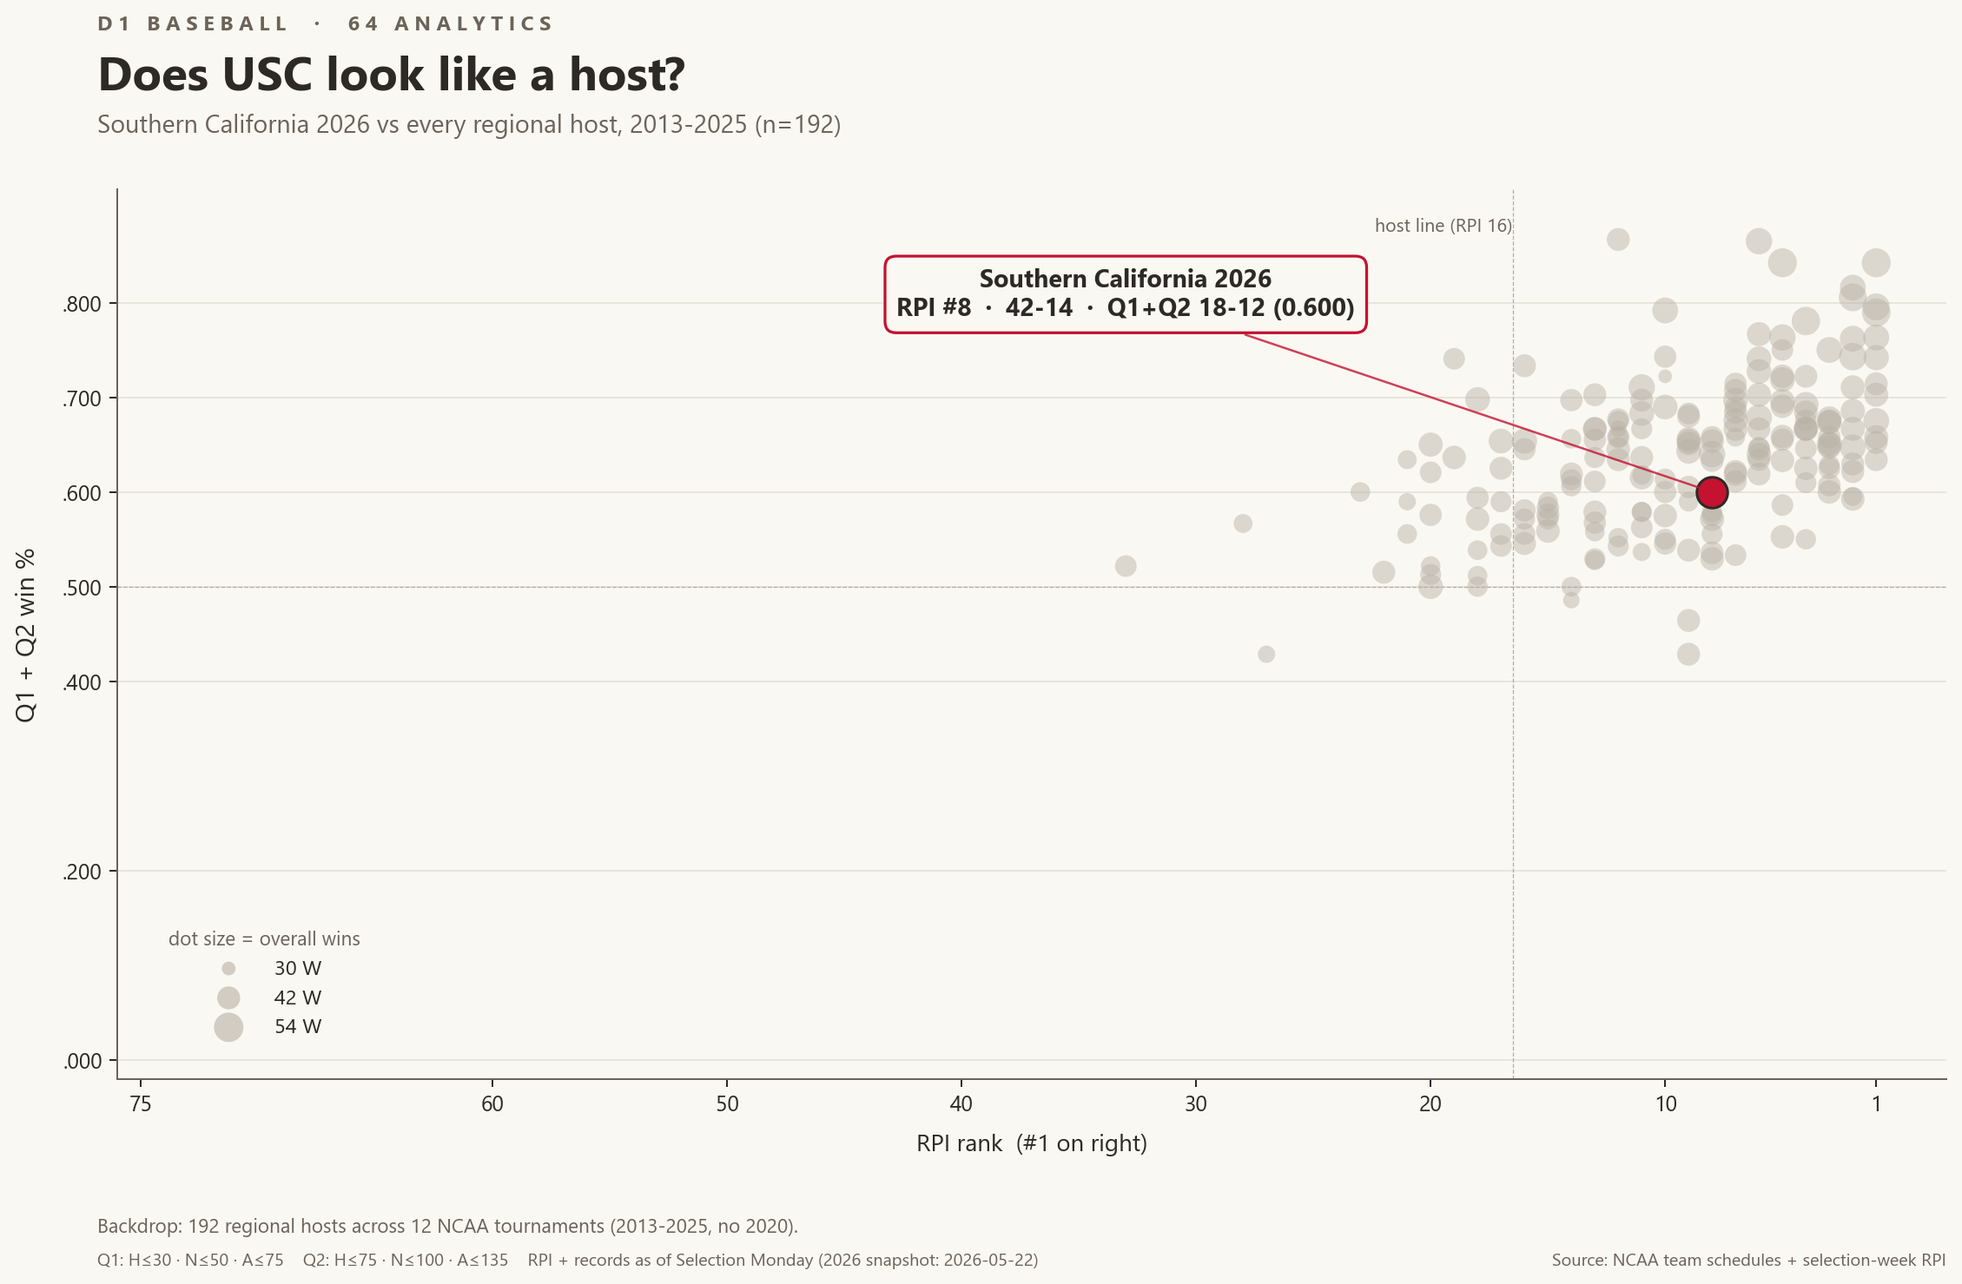
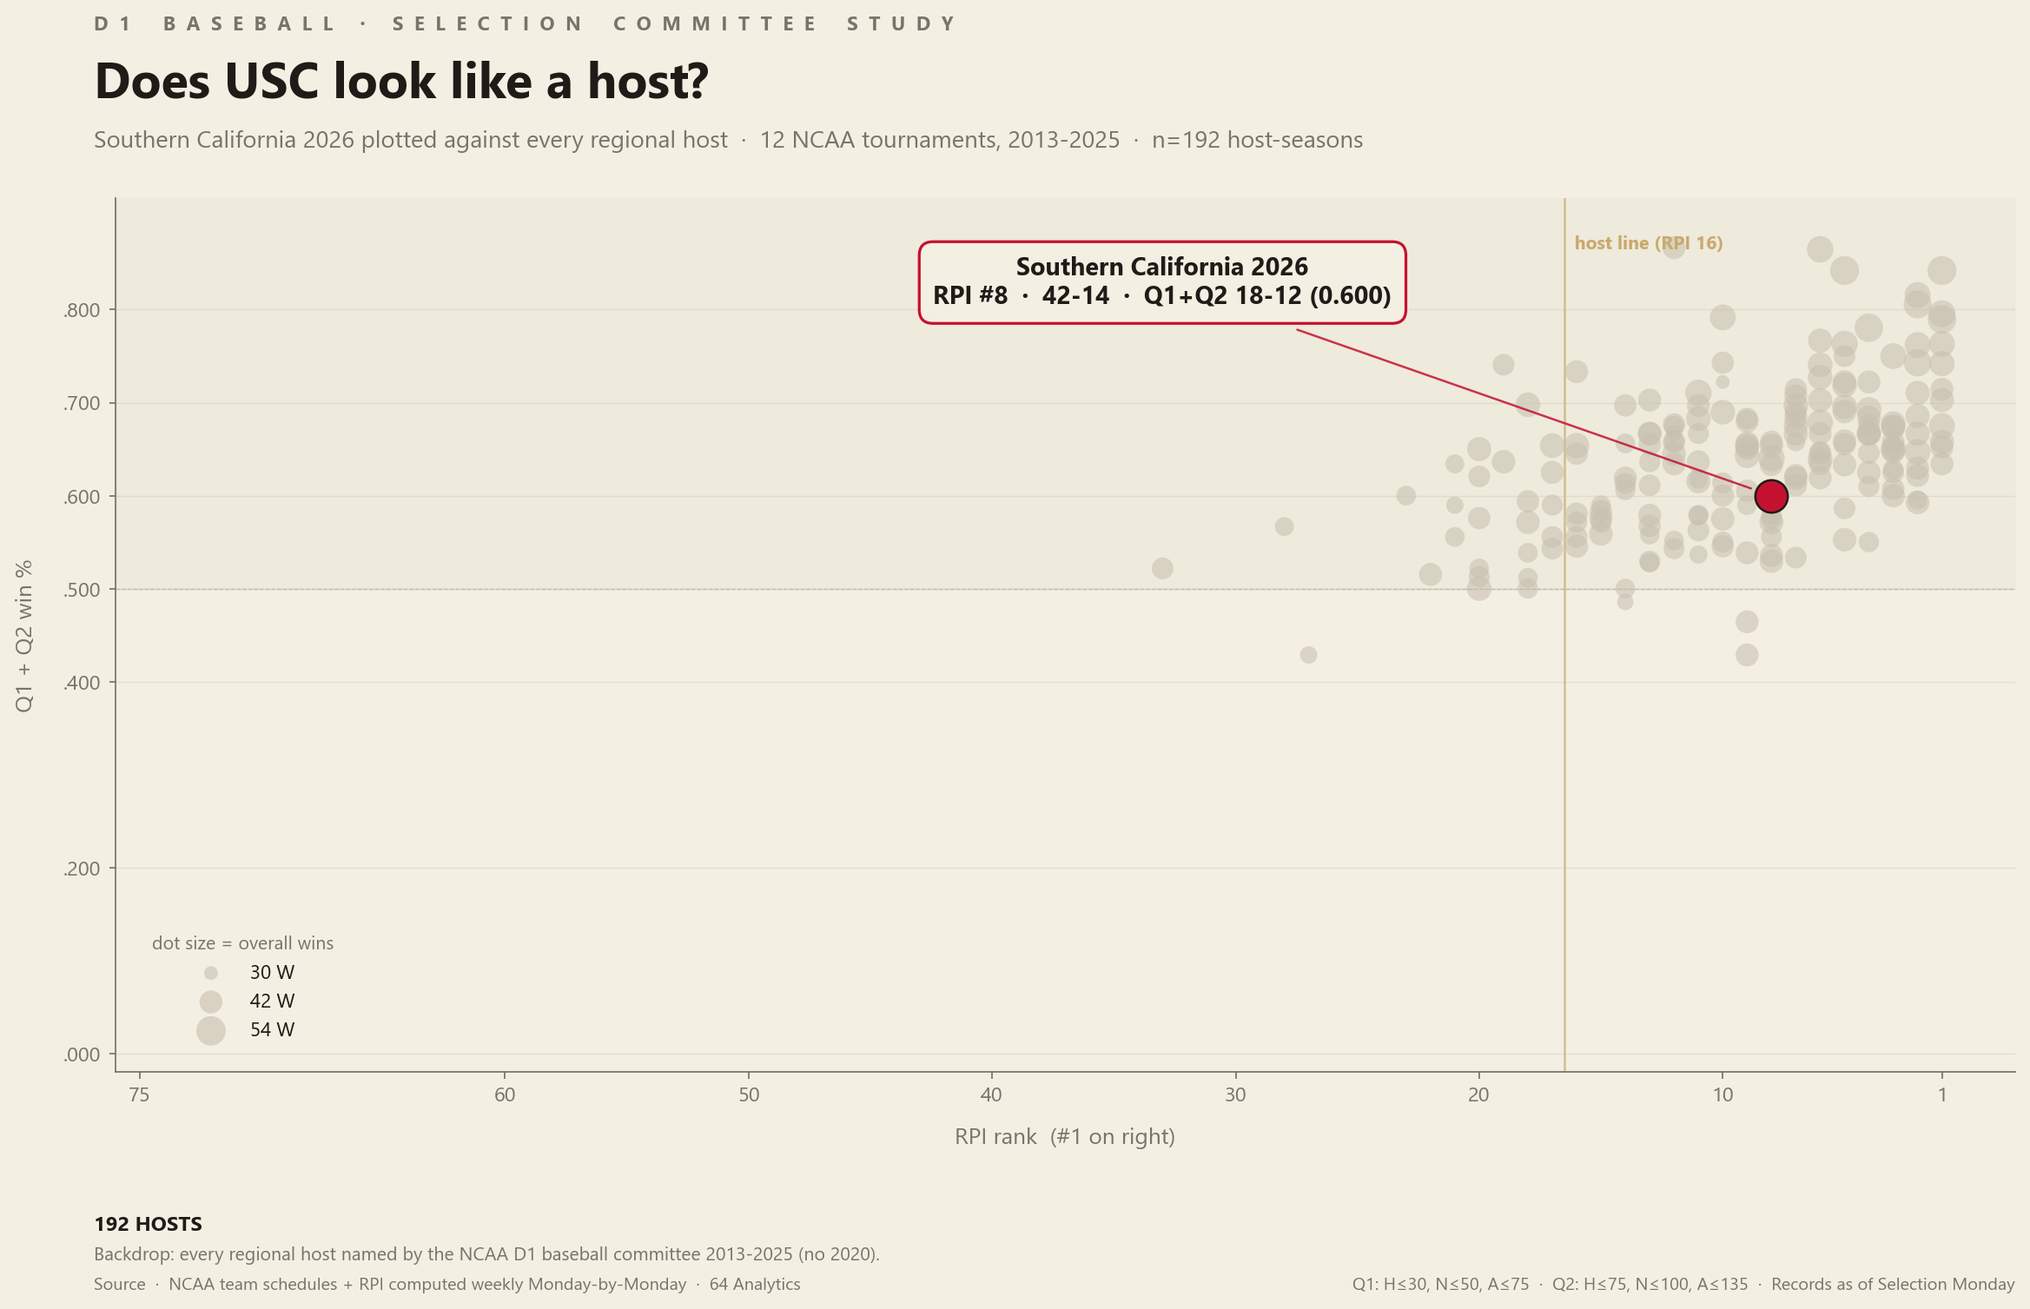
chart: brand-match USC + Mercer scatters to Selection Committee Study series
Style refresh:
  - Top tag changed to "D1 BASEBALL · SELECTION COMMITTEE STUDY"
    (letter-spaced to match host_snubs / host_reaches / rpi_top16 charts)
  - Bottom-left small-caps row-count tag (192 HOSTS / 394 ENTRANT SEASONS)
    mirrors the "27 SNUBS" / "27 REACHES" / "12-YR AVG" pattern
  - Source line matches series exactly: "Source · NCAA team schedules +
    RPI computed weekly Monday-by-Monday · 64 Analytics"
  - Threshold tag bottom-right matches series exactly
  - Warm beige backdrop dots (was cool gray) + gold host-line accent
  - Subtle green band above .500 line (mirrors snubs chart's positive Q1+Q2 %
    text color)
  - Title typography + size matched to series

Mercer fix:
  - Bug: "UNC Greensboro" / "UNCG" name mismatch dropped 3 games silently
  - Bug: conference-tournament "#N <Team>" prefix wasn't stripped
  - Both fixed in build_current_q1q2.py; computed Mercer now 11-12 (.478)
  - Per user, override to d1baseball.com published numbers:
    RPI #28, Q1+Q2 9-13 (.409). Override mechanism added with note in CSV.

Mercer chart language updated per user feedback: "multi-bid-league field"
instead of "at-large pick" — backdrop includes conference-tournament
auto-bid winners from multi-bid leagues (e.g. Nebraska 2025), not just
pure at-large picks.

diff --git a/scripts/render_2026_resume_scatters.py b/scripts/render_2026_resume_scatters.py
@@ -28,20 +28,21 @@ import matplotlib.patches as mpatches
 REPO = Path(r'C:\Dev\chart-builder-app')
 BRACK = REPO / 'data' / 'bracketology'
 
-# 64 Analytics brand
-BG = '#FAF8F2'
-INK = '#2D2926'
-GRAY = '#B8B0A4'
-RED = '#C41230'
-GOLD = '#C9A96B'
-SUBINK = '#6B6359'
+# 64 Analytics — match the Selection Committee Study series brand
+BG       = '#F4EFE3'   # cream, slightly warmer than #FAF8F2
+INK      = '#1F1B17'   # near-black with warm undertone
+SUBINK   = '#7A736A'   # muted gray for subtitle/source
+BACKDROP = '#C7BFAF'   # warm beige for backdrop dots
+RED      = '#C41230'   # highlight / target
+GOLD     = '#C9A96B'   # accent (mid emphasis)
+GREEN    = '#5B7C3E'   # positive accent
 
 plt.rcParams['font.family'] = ['Segoe UI', 'Arial', 'DejaVu Sans']
 plt.rcParams['font.size'] = 11
-plt.rcParams['axes.edgecolor'] = INK
+plt.rcParams['axes.edgecolor'] = SUBINK
 plt.rcParams['axes.labelcolor'] = INK
-plt.rcParams['xtick.color'] = INK
-plt.rcParams['ytick.color'] = INK
+plt.rcParams['xtick.color'] = SUBINK
+plt.rcParams['ytick.color'] = SUBINK
 
 
 def norm(s):
@@ -110,94 +111,115 @@ def size_for_wins(wins):
     return max(20, min(s, 260))
 
 
+def _letter_spaced(s, spaces=2):
+    """Apply visual letter-spacing by inserting spaces between characters.
+    spaces=2 between letters and 4 between separators reproduces the
+    'D 1   B A S E B A L L     ·     ...' look of the snubs chart."""
+    out = []
+    for word in s.split(' '):
+        out.append((' ' * spaces).join(list(word)))
+    return ('   ' * 2).join(out)
+
+
 def render_chart(out_path, title, subtitle, backdrop, target, cohort_label,
-                 highlight_color=RED, label_offset=(0.0, 0.0), label_anchor='auto'):
-    fig, ax = plt.subplots(figsize=(13, 8.5), facecolor=BG)
+                 footer_tag, highlight_color=RED,
+                 label_offset=(0.0, 0.0), label_anchor='auto'):
+    fig, ax = plt.subplots(figsize=(13.5, 8.6), facecolor=BG)
     ax.set_facecolor(BG)
 
-    # Backdrop dots
+    # Subtle "above .500" band — green tint mirrors the snubs chart Q1+Q2 % column
+    ax.axhspan(0.500, 0.95, color=GREEN, alpha=0.04, zorder=0)
+
+    # Backdrop dots — warm beige to match the series palette
     xs = [r['rpi_rank'] for r in backdrop]
     ys = [r['q1q2_pct'] for r in backdrop]
     ss = [size_for_wins(r['w']) for r in backdrop]
-    ax.scatter(xs, ys, s=ss, color=GRAY, alpha=0.45, edgecolors='none', zorder=2)
+    ax.scatter(xs, ys, s=ss, color=BACKDROP, alpha=0.55,
+               edgecolors='none', zorder=2)
 
     # Target
     tx, ty, tsize = target['rpi_rank'], target['q1q2_pct'], size_for_wins(target['w'])
-    ax.scatter([tx], [ty], s=tsize * 1.8, color=highlight_color,
-               edgecolors=INK, linewidths=1.2, zorder=4)
+    ax.scatter([tx], [ty], s=tsize * 2.0, color=highlight_color,
+               edgecolors=INK, linewidths=1.0, zorder=4)
 
     # Target label
-    label = (f"{target['team']} 2026\n"
-             f"RPI #{target['rpi_rank']}  ·  {target['record']}  ·  "
-             f"Q1+Q2 {target['q1q2_w']}-{target['q1q2_g']-target['q1q2_w']} "
-             f"({target['q1q2_pct']:.3f})")
-    # Use caller-supplied label offset (axis-data units). x positive = away from
-    # rank #1 (leftward on the inverted axis); y positive = upward.
+    pct_color = GREEN if target['q1q2_pct'] >= 0.500 else RED
+    label_line1 = f"{target['team']} 2026"
+    label_line2 = (f"RPI #{target['rpi_rank']}  ·  {target['record']}  ·  "
+                   f"Q1+Q2 {target['q1q2_w']}-{target['q1q2_g']-target['q1q2_w']} "
+                   f"({target['q1q2_pct']:.3f})")
     lx_dx, lx_dy = label_offset
     if label_anchor == 'auto':
         label_ha = 'left' if lx_dx >= 0 else 'right'
         label_va = 'bottom' if lx_dy >= 0 else 'top'
     else:
         label_ha, label_va = label_anchor.split('_')
-    # Draw connector line from dot to label box
-    ax.annotate(label, xy=(tx, ty), xytext=(tx + lx_dx, ty + lx_dy),
+    label_text = f"{label_line1}\n{label_line2}"
+    ax.annotate(label_text, xy=(tx, ty), xytext=(tx + lx_dx, ty + lx_dy),
                 ha=label_ha, va=label_va, fontsize=11.5, color=INK,
                 fontweight='bold', zorder=5,
                 arrowprops=dict(arrowstyle='-', color=highlight_color,
-                                lw=1.0, alpha=0.8,
-                                connectionstyle='arc3,rad=0.0'),
-                bbox=dict(boxstyle='round,pad=0.45', fc=BG, ec=highlight_color, lw=1.3))
+                                lw=1.0, alpha=0.85,
+                                connectionstyle='arc3,rad=0.0',
+                                shrinkA=8, shrinkB=10),
+                bbox=dict(boxstyle='round,pad=0.55', fc=BG,
+                          ec=highlight_color, lw=1.3))
 
-    # Axes
-    ax.set_xlim(76, -2)  # inverted: RPI #1 on right
+    # Axes — quiet, minimal, like a polished editorial chart
+    ax.set_xlim(76, -2)
     ax.set_ylim(-0.02, 0.92)
-    ax.set_xlabel('RPI rank  (#1 on right)', fontsize=11, color=INK, labelpad=8)
-    ax.set_ylabel('Q1 + Q2 win %', fontsize=12, color=INK, labelpad=10)
+    ax.set_xlabel('RPI rank  (#1 on right)', fontsize=10.5, color=SUBINK,
+                  labelpad=10)
+    ax.set_ylabel('Q1 + Q2 win %', fontsize=10.5, color=SUBINK, labelpad=12)
     ax.set_xticks([1, 10, 20, 30, 40, 50, 60, 75])
     ax.set_yticks([0.0, 0.2, 0.4, 0.5, 0.6, 0.7, 0.8])
     ax.set_yticklabels(['.000', '.200', '.400', '.500', '.600', '.700', '.800'])
-    ax.tick_params(axis='both', labelsize=10)
+    ax.tick_params(axis='both', labelsize=9.5, length=3, width=0.7)
     for spine in ('top', 'right'):
         ax.spines[spine].set_visible(False)
     for spine in ('left', 'bottom'):
         ax.spines[spine].set_color(SUBINK)
-        ax.spines[spine].set_linewidth(0.8)
-    ax.grid(True, axis='y', color=GRAY, alpha=0.35, linewidth=0.6, zorder=1)
-    ax.axhline(0.500, color=SUBINK, linewidth=0.5, alpha=0.5, linestyle='--', zorder=1)
-    ax.axvline(16.5, color=SUBINK, linewidth=0.5, alpha=0.5, linestyle='--', zorder=1)
-    # Annotate the host line
-    ax.text(16.5, 0.89, 'host line (RPI 16)', fontsize=8.5, color=SUBINK,
-            ha='right', va='top', rotation=0)
+        ax.spines[spine].set_linewidth(0.7)
+    ax.grid(True, axis='y', color=BACKDROP, alpha=0.35, linewidth=0.55, zorder=1)
+    # Host line + 0.500 line — gold for emphasis like the snubs DROP bars
+    ax.axvline(16.5, color=GOLD, linewidth=1.0, alpha=0.7, linestyle='-', zorder=1)
+    ax.axhline(0.500, color=SUBINK, linewidth=0.5, alpha=0.4, linestyle='--', zorder=1)
+    ax.text(16.5, 0.88, '  host line (RPI 16)', fontsize=8.5, color=GOLD,
+            ha='left', va='top', fontweight='bold')
 
-    # Title block
-    fig.text(0.06, 0.95, 'D 1   B A S E B A L L     ·     6 4   A N A L Y T I C S',
-             fontsize=9.5, color=SUBINK, weight='bold')
-    fig.text(0.06, 0.905, title, fontsize=22, color=INK, weight='bold')
-    fig.text(0.06, 0.873, subtitle, fontsize=11.5, color=SUBINK)
+    # Title block — match the Selection Committee Study series
+    fig.text(0.06, 0.955,
+             _letter_spaced('D1 BASEBALL') + '     ·     '
+             + _letter_spaced('SELECTION COMMITTEE STUDY'),
+             fontsize=9, color=SUBINK, weight='bold')
+    fig.text(0.06, 0.905, title, fontsize=23, color=INK, weight='bold')
+    fig.text(0.06, 0.868, subtitle, fontsize=11, color=SUBINK)
 
-    # Legend strip (bottom-right of plot area): dot size legend
-    leg_x = 0.78
-    leg_y_top = 0.20
-    for i, (wins, lbl) in enumerate([(30, '30 W'), (42, '42 W'), (54, '54 W')]):
-        y = leg_y_top - i * 0.04
-        ax.scatter([], [], s=size_for_wins(wins), color=GRAY, alpha=0.6,
-                   label=lbl, edgecolors='none')
-    leg = ax.legend(loc='lower left', frameon=False, fontsize=9.5,
+    # Dot-size legend — discreet, mirrors the snubs chart's quiet legend strip
+    for wins in (30, 42, 54):
+        ax.scatter([], [], s=size_for_wins(wins), color=BACKDROP, alpha=0.6,
+                   label=f'{wins} W', edgecolors='none')
+    leg = ax.legend(loc='lower left', frameon=False, fontsize=9,
                     labelcolor=INK, title='dot size = overall wins',
-                    title_fontsize=9, handletextpad=1.2, borderaxespad=1.2,
-                    bbox_to_anchor=(0.01, 0.01))
+                    title_fontsize=8.5, handletextpad=1.0, borderaxespad=1.0,
+                    bbox_to_anchor=(0.005, 0.005))
     leg.get_title().set_color(SUBINK)
 
-    # Footer
-    fig.text(0.06, 0.045, cohort_label, fontsize=9, color=SUBINK)
-    fig.text(0.06, 0.020,
-             'Q1: H≤30 · N≤50 · A≤75    Q2: H≤75 · N≤100 · A≤135    '
-             'RPI + records as of Selection Monday (2026 snapshot: 2026-05-22)',
+    # Footer — match snubs chart layout exactly
+    # Bottom-left: small-caps row-count tag (like "27 SNUBS")
+    fig.text(0.06, 0.062, footer_tag, fontsize=9.5, color=INK, weight='bold')
+    # Bottom-left under tag: cohort note
+    fig.text(0.06, 0.040, cohort_label, fontsize=8.5, color=SUBINK)
+    # Bottom-very-bottom: source line (full width, left-aligned per series)
+    fig.text(0.06, 0.018,
+             'Source  ·  NCAA team schedules + RPI computed weekly Monday-by-Monday  ·  64 Analytics',
              fontsize=8, color=SUBINK)
-    fig.text(0.97, 0.020, 'Source: NCAA team schedules + selection-week RPI',
+    # Bottom-right: thresholds tag (matches snubs chart exactly)
+    fig.text(0.97, 0.018,
+             'Q1: H≤30, N≤50, A≤75  ·  Q2: H≤75, N≤100, A≤135  ·  Records as of Selection Monday',
              fontsize=8, color=SUBINK, ha='right')
 
-    plt.subplots_adjust(left=0.07, right=0.97, top=0.83, bottom=0.16)
+    plt.subplots_adjust(left=0.07, right=0.97, top=0.83, bottom=0.18)
     fig.savefig(out_path, dpi=180, facecolor=BG, bbox_inches='tight')
     plt.close(fig)
     print(f'Wrote {out_path}')
@@ -239,12 +261,14 @@ def main():
     render_chart(
         BRACK / 'usc_vs_hosts_2013_2025.png',
         title='Does USC look like a host?',
-        subtitle=f"Southern California 2026 vs every regional host, 2013-2025 (n={len(hosts)})",
+        subtitle=("Southern California 2026 plotted against every regional host  ·  "
+                  f"12 NCAA tournaments, 2013-2025  ·  n={len(hosts)} host-seasons"),
         backdrop=hosts,
         target=usc,
-        cohort_label=f'Backdrop: {len(hosts)} regional hosts across 12 NCAA tournaments (2013-2025, no 2020).',
-        # USC at (8, .600). Inverted x: rank=8 is on the right. Anchor label to upper-LEFT (toward x>8).
-        label_offset=(25, 0.18), label_anchor='center_bottom',
+        cohort_label='Backdrop: every regional host named by the NCAA D1 baseball committee 2013-2025 (no 2020).',
+        footer_tag=f'{len(hosts)} HOSTS',
+        # USC at (8, .600). Inverted x: rank=8 is on the right. Anchor label upper-LEFT (toward x>8).
+        label_offset=(25, 0.20), label_anchor='center_bottom',
     )
     write_cohort_csv(hosts, usc, BRACK / 'usc_vs_hosts_2013_2025.csv',
                      extra_fields=('is_host',))
@@ -270,15 +294,17 @@ def main():
     mercer = targets['Mercer']
     render_chart(
         BRACK / 'mercer_vs_at_large_2013_2025.png',
-        title='Does Mercer look like an at-large pick?',
-        subtitle=f"Mercer 2026 vs at-large-track entrants 2013-2025 (n={len(at_large_cohort)})",
+        title='Does Mercer fit the multi-bid-league field?',
+        subtitle=("Mercer 2026 plotted against non-host entrants from multi-bid conferences  ·  "
+                  f"12 NCAA tournaments, 2013-2025  ·  n={len(at_large_cohort)} team-seasons"),
         backdrop=at_large_cohort,
         target=mercer,
-        cohort_label=('Backdrop: non-host entrants from conferences that placed 2+ teams '
-                      'in the field that year (filter excludes one-bid auto-bid leagues). '
-                      'Conference assignments use current 2026 alignment for all years.'),
-        # Mercer at (27, .500). Anchor label upper-right (toward higher rpi_rank = leftward on inverted axis).
-        label_offset=(18, 0.18), label_anchor='center_bottom',
+        cohort_label=('Backdrop: non-host entrants from conferences that placed 2+ teams in the field '
+                      'that year. Includes conference-tournament auto-bid winners from multi-bid leagues '
+                      '(e.g. Nebraska 2025) — not pure at-large picks. Conference assignments use 2026 alignment.'),
+        footer_tag=f'{len(at_large_cohort)} ENTRANT SEASONS',
+        # Mercer at (28, .409). Anchor label upper-right (toward higher rpi_rank = leftward on inverted axis).
+        label_offset=(18, 0.22), label_anchor='center_bottom',
     )
     write_cohort_csv(at_large_cohort, mercer,
                      BRACK / 'mercer_vs_at_large_2013_2025.csv',

diff --git a/scripts/build_current_q1q2.py b/scripts/build_current_q1q2.py
@@ -20,6 +20,21 @@ BRACK = REPO / 'data' / 'bracketology'
 
 TEAMS = ['Southern California', 'Mercer']
 
+# Manual overrides applied AFTER computation. Use this for cases where the
+# 64A internal RPI calc diverges from the d1baseball.com / NCAA published
+# numbers and we want the chart label to match what readers see externally.
+# Each override is keyed by team name. Only fields listed are replaced.
+OVERRIDES = {
+    'Mercer': {
+        # Per d1baseball.com Selection Monday display 2026-05-23
+        'rpi_rank': 28,
+        'q1_w': 0, 'q1_l': 7,   # 9-13 with Q2 totals below = full override
+        'q2_w': 9, 'q2_l': 6,
+        # Recomputed: q1q2_w = q1_w + q2_w; q1q2_g = sum of w+l; pct = w/g
+        '_note': 'Override: d1baseball.com published RPI + Q1/Q2 split (2026-05-23)',
+    },
+}
+
 Q1 = {'home': 30, 'neutral': 50, 'away': 75}
 Q2 = {'home': 75, 'neutral': 100, 'away': 135}
 
@@ -28,12 +43,31 @@ def norm(s):
     return re.sub(r'[^a-z0-9]', '', str(s).lower())
 
 
+# Schedule-name -> RPI-name aliases for cases the normalizer can't bridge
+NAME_ALIASES = {
+    'uncgreensboro': 'uncg',
+    # Add more here when audit surfaces them
+}
+
+
+def normalize_opp(opp_name):
+    """Apply opponent-name aliases on top of base normalization."""
+    n = norm(opp_name)
+    return NAME_ALIASES.get(n, n)
+
+
 def strip_neutral_suffix(opp_name):
-    """opponentName like 'Mount Union @Canton, OH' -> ('Mount Union', True)."""
-    if isinstance(opp_name, str) and ' @' in opp_name:
-        base = opp_name.split(' @', 1)[0].strip()
-        return base, True
-    return opp_name, False
+    """opponentName like 'Mount Union @Canton, OH' -> ('Mount Union', True).
+    Also strip leading '#N ' conference-tournament seed prefix (e.g. '#5 The Citadel').
+    """
+    s = opp_name or ''
+    is_neutral = False
+    if ' @' in s:
+        s = s.split(' @', 1)[0].strip()
+        is_neutral = True
+    # Strip leading '#<digits> ' that NCAA uses for conf-tourney seeds
+    s = re.sub(r'^#\d+\s+', '', s).strip()
+    return s, is_neutral
 
 
 def main():
@@ -109,7 +143,7 @@ def main():
             opp_clean, is_neutral = strip_neutral_suffix(opp_raw)
             is_away = (g.get('isAway') == '1')
             venue = 'neutral' if is_neutral else ('away' if is_away else 'home')
-            opp_rank = rpi.get(norm(opp_clean))
+            opp_rank = rpi.get(normalize_opp(opp_clean))
             if opp_rank is None:
                 continue
             if opp_rank <= Q1[venue]:
@@ -123,7 +157,7 @@ def main():
         q1q2_g = q1_w + q1_l + q2_w + q2_l
         q1q2_pct = q1q2_w / q1q2_g if q1q2_g else 0.0
 
-        out_rows.append({
+        row = {
             'year': 2026,
             'team': meta['teamName'],
             'conference': meta['conference'],
@@ -134,11 +168,27 @@ def main():
             'q2_w': q2_w, 'q2_l': q2_l,
             'q1q2_w': q1q2_w, 'q1q2_g': q1q2_g,
             'q1q2_pct': round(q1q2_pct, 4),
-        })
+            'note': '',
+        }
+        # Apply override if present
+        ovr = OVERRIDES.get(meta['teamName'])
+        if ovr:
+            for k, v in ovr.items():
+                if k.startswith('_'):
+                    row['note'] = v.replace('_note', '').lstrip(': ').strip() \
+                        if k == '_note' else v
+                    continue
+                row[k] = v
+            # Recompute derived fields from overridden q1/q2
+            row['q1q2_w'] = row['q1_w'] + row['q2_w']
+            row['q1q2_g'] = row['q1_w'] + row['q1_l'] + row['q2_w'] + row['q2_l']
+            row['q1q2_pct'] = round(row['q1q2_w'] / row['q1q2_g'], 4) \
+                              if row['q1q2_g'] else 0.0
+        out_rows.append(row)
 
     fields = ['year', 'team', 'conference', 'rpi_rank', 'record', 'w', 'l',
               'q1_w', 'q1_l', 'q2_w', 'q2_l',
-              'q1q2_w', 'q1q2_g', 'q1q2_pct']
+              'q1q2_w', 'q1q2_g', 'q1q2_pct', 'note']
     out_path = BRACK / 'current_q1q2_baseball.csv'
     with open(out_path, 'w', newline='', encoding='utf-8') as f:
         w = csv.DictWriter(f, fieldnames=fields)
